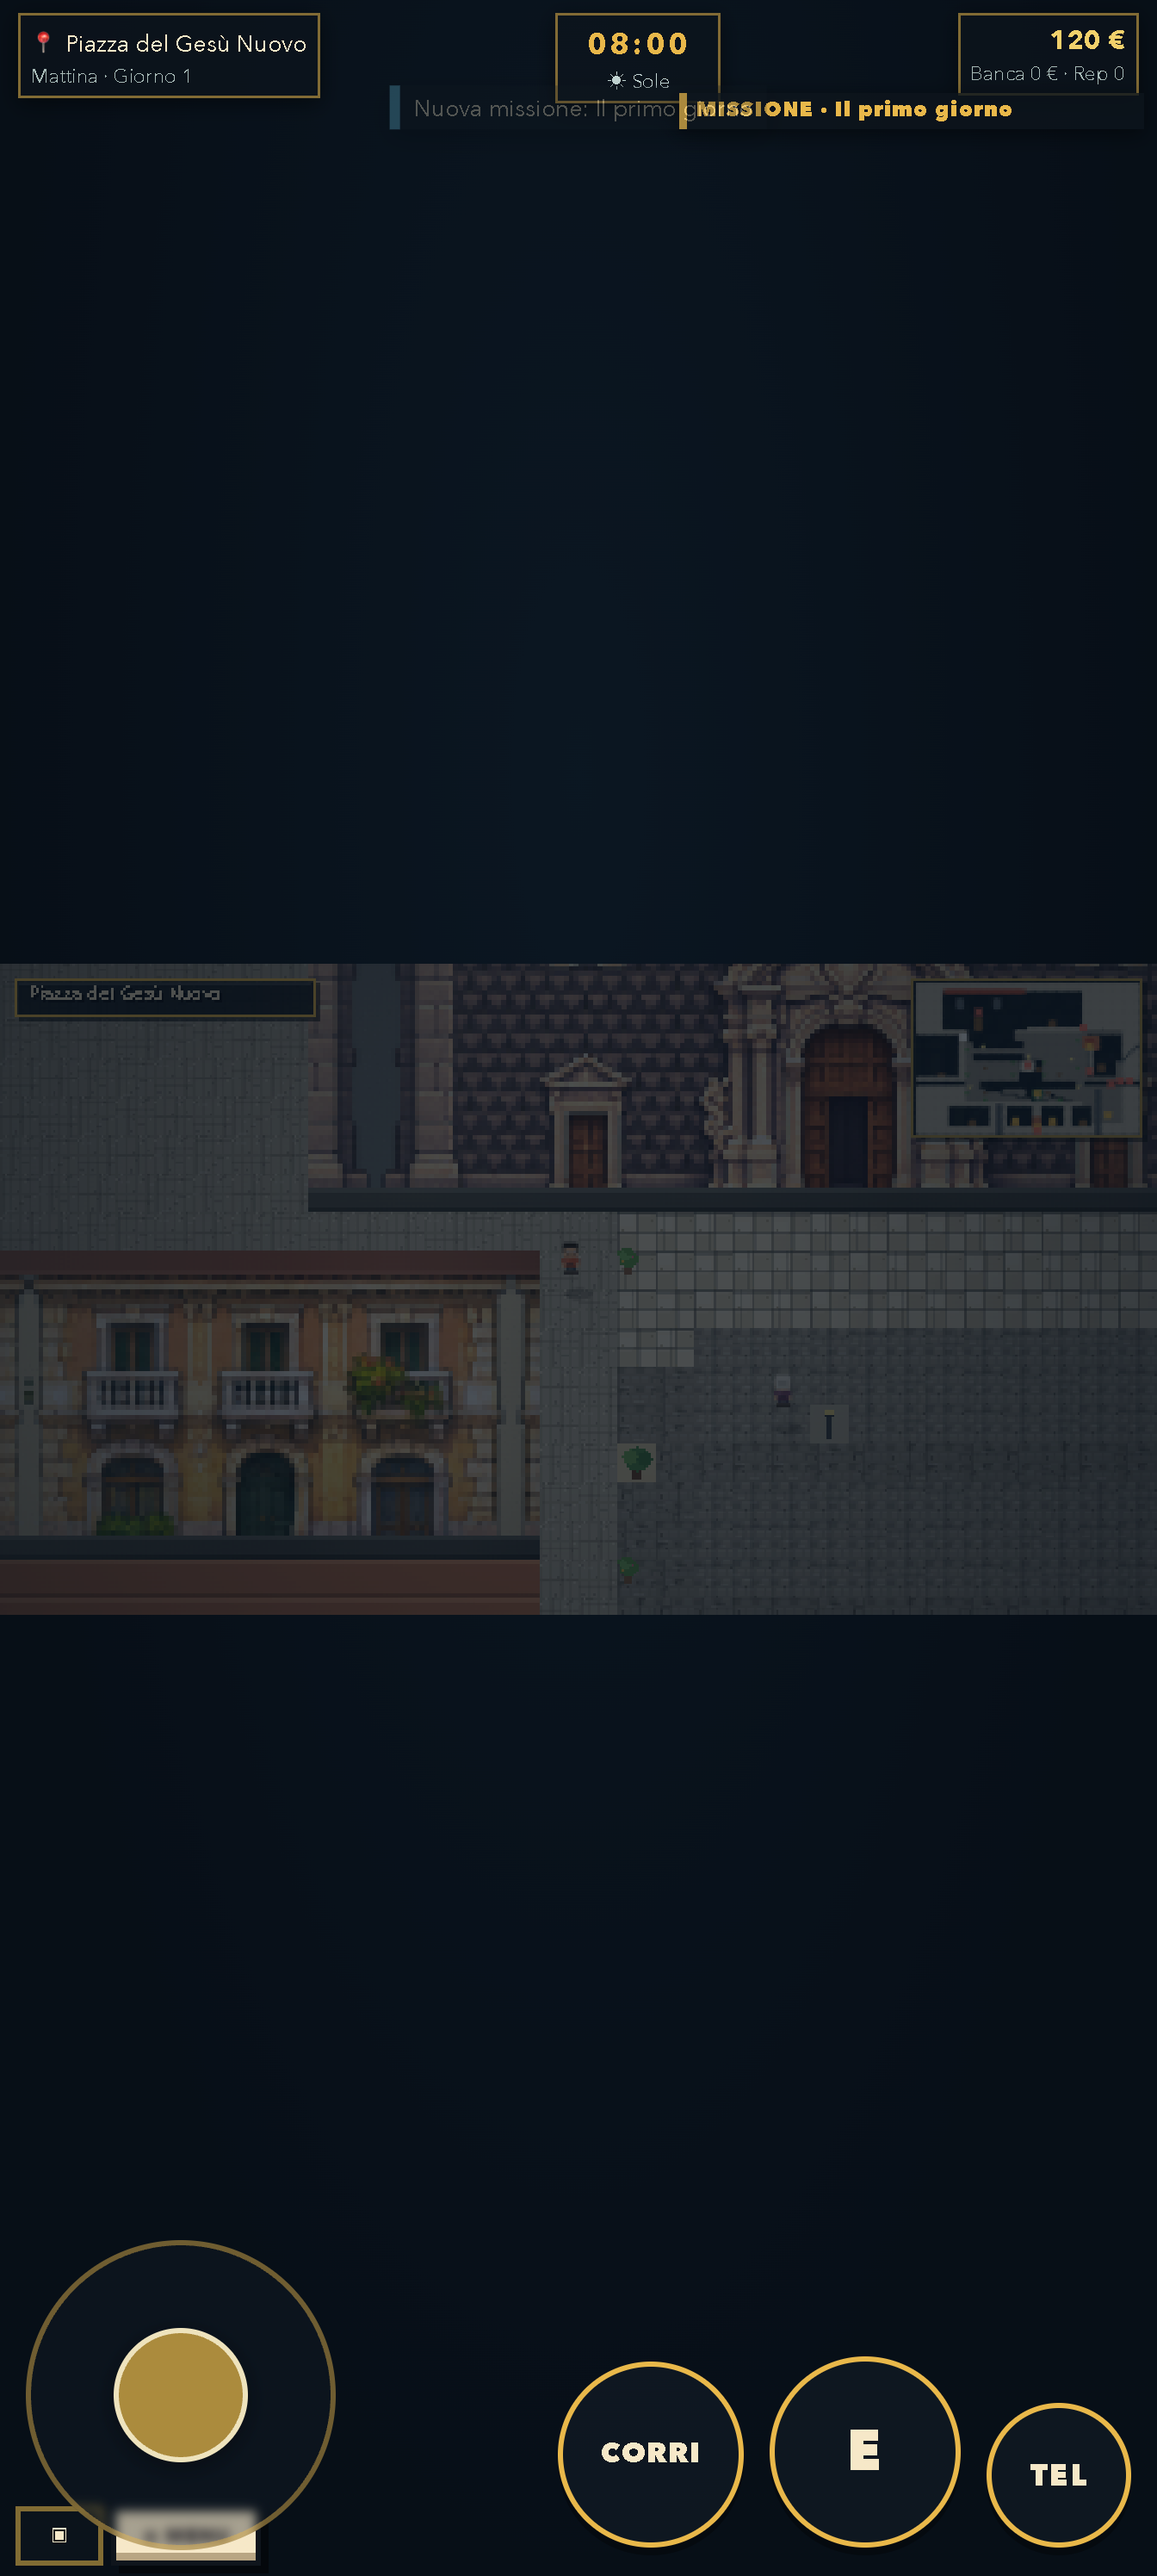
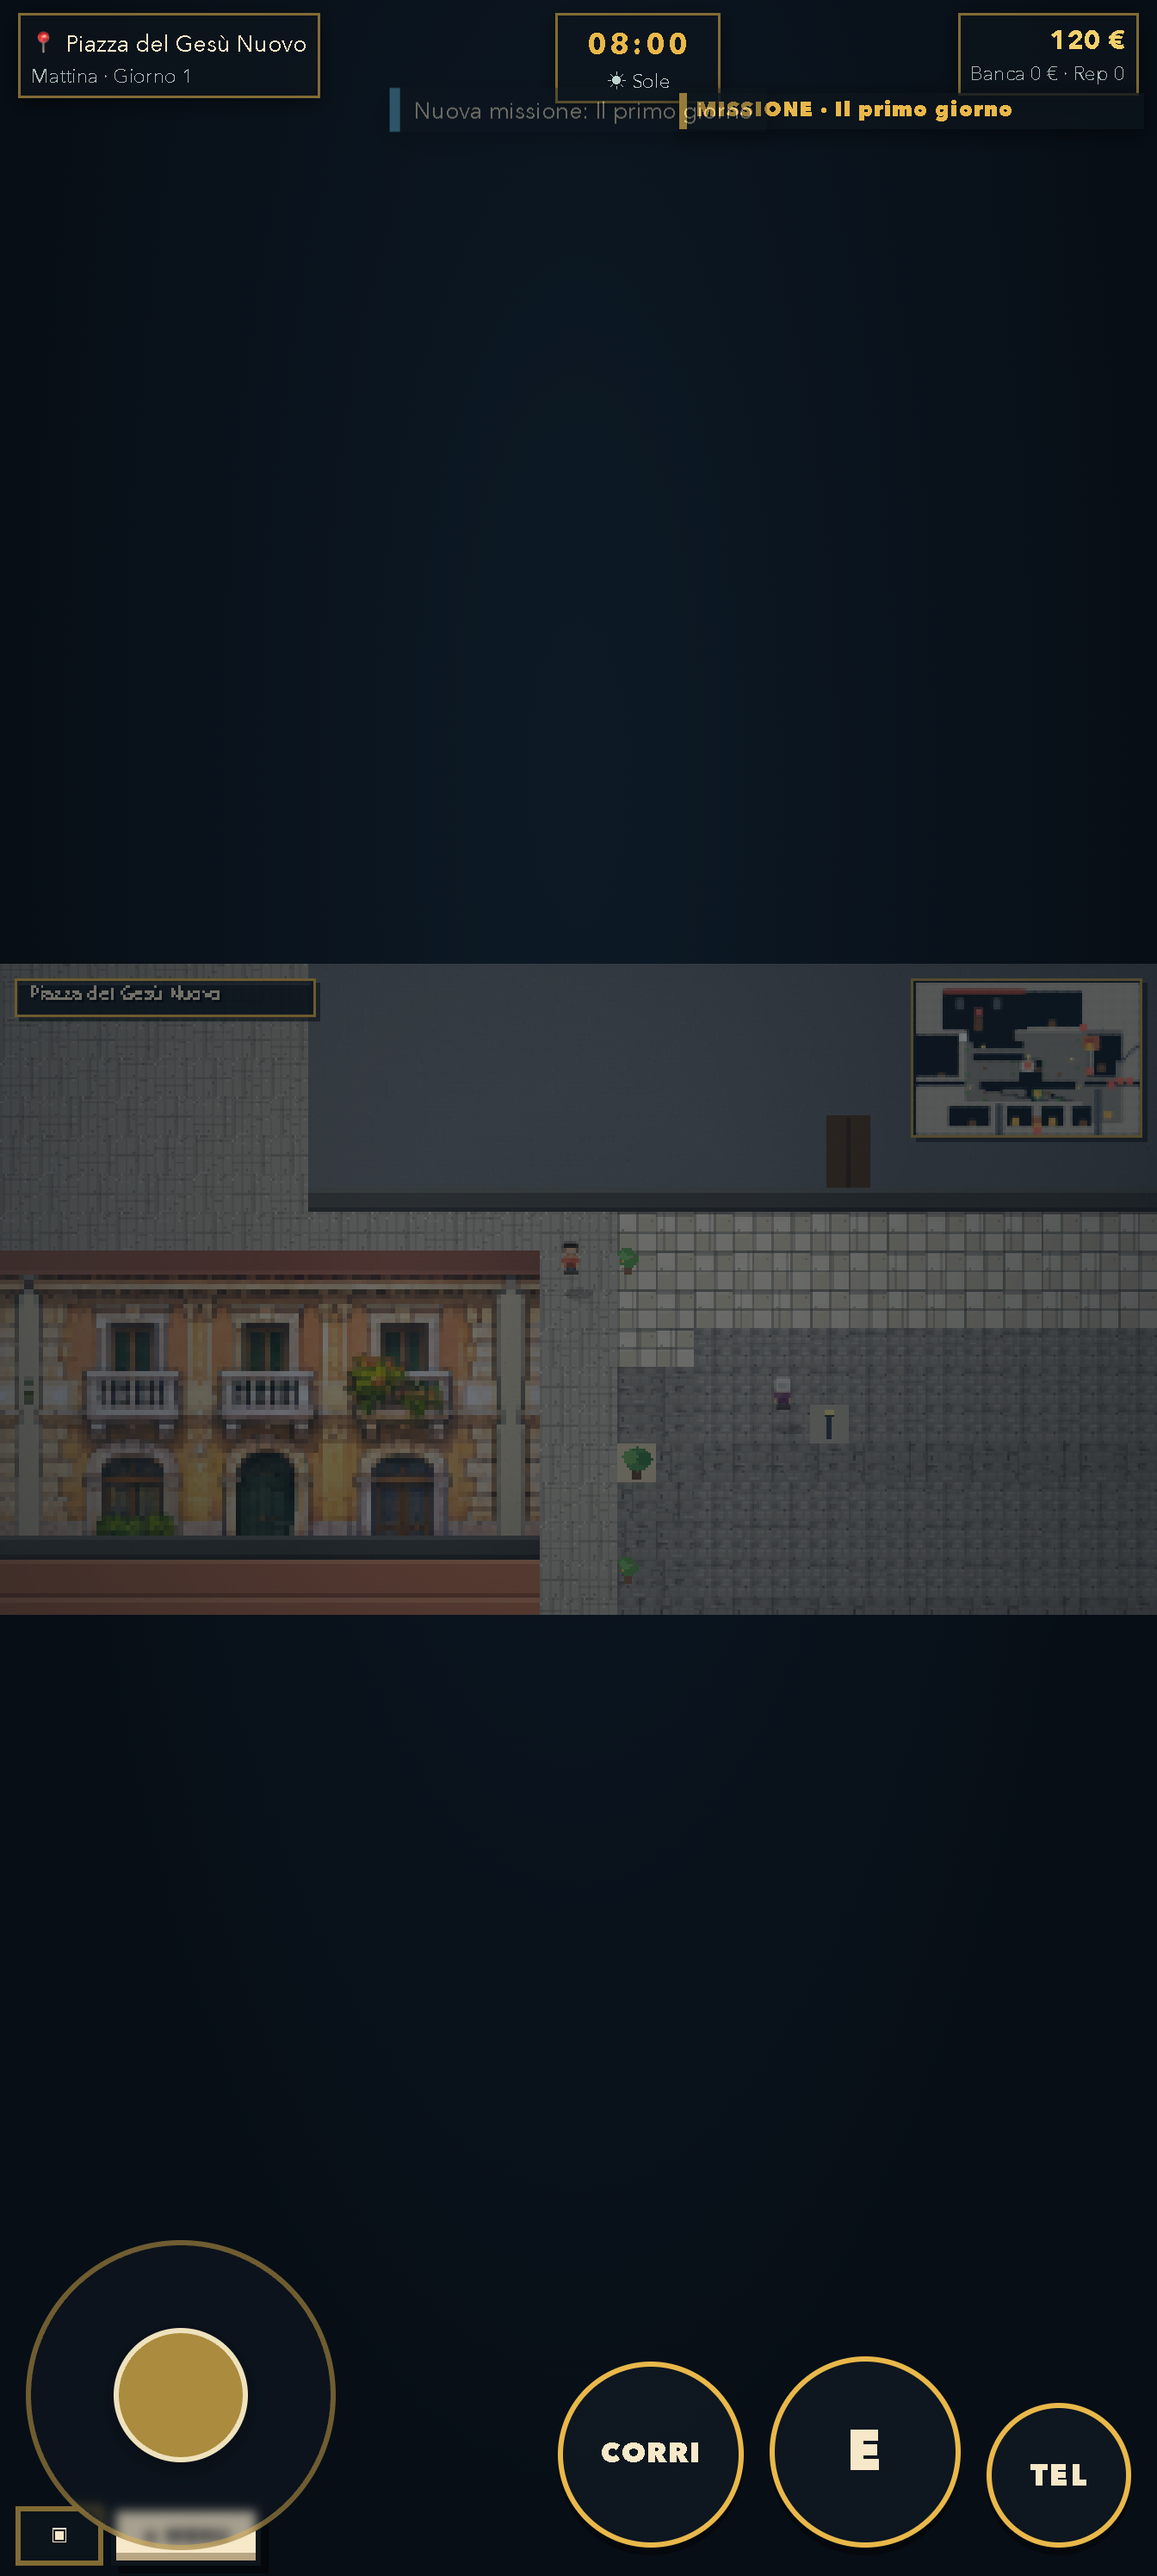
Documenta pubblicazione revisione qualitativa

Changed region(s): [[0.0, 0.3731, 1.0, 0.653], [0.0312, 0.3731, 0.1875, 0.4042]]

diff --git a/ROADMAP.md b/ROADMAP.md
@@ -1,8 +1,8 @@
 # CAMPANIA LIFE / CAMPANIA OPEN CODE — ROADMAP di ripresa
 
-**Aggiornato:** 25 novembre 2026 — revisione qualitativa completata, pronta per la pubblicazione autonoma sullo stesso URL.
+**Aggiornato:** 25 novembre 2026 — revisione qualitativa completata e pubblicata sullo stesso URL.
 **Repo:** `CampaniaLife` · branch locale `main` · remote `origin/main`.
-**Stato pubblico corrente (pre-pubblicazione qualitativa):** `c9fddbd`, bundle remoto `index-BK9wvC9o.js`, workflow `45606128039` `success`. Smoke test pubblico **OK**: `NUOVA PARTITA` → `napoli` `240,272` → WASD quattro direzioni + corsa + idle → joystick quattro direzioni → movimento `229,272` → save `campania_life_save_v1` → `CONTINUA` `229,272`. Marker beta e chiave save presenti nel bundle remoto.
+**Stato pubblico corrente:** revisione qualitativa `b7f2716`, bundle remoto `index-CWJT4Ahe.js`, workflow `45616242811` `success` (build `139212256590`, deploy `139212645019`). Smoke test pubblico **OK**: `NUOVA PARTITA` → `napoli` `240,272` → WASD quattro direzioni + corsa + idle → joystick quattro direzioni → movimento `229,272` → save `campania_life_save_v1` → `CONTINUA` `229,272`. Marker beta, chiave save, `blockedBox`, `doorClosed` e `awningSprite` presenti nel bundle remoto. Pubblicazione precedente: `c9fddbd`, bundle `index-BK9wvC9o.js`, workflow `45606128039`.
 **Checkpoint della revisione qualitativa:** `checkpoint/pre-quality-review` / `backup/pre-quality-review` su `4cd0e35`, con bundle `../backup/pre-quality-review/CampaniaLife-4cd0e35.bundle`.
 **Nota:** la workflow `45513882269` era stata annullata deliberatamente prima della revisione visiva; la pubblicazione finale precedente è avvenuta sullo stesso URL con la workflow `45606128039`.
 
@@ -73,7 +73,7 @@
 
 ## 2. Stato dei controlli
 
-- [x] Tutti i gate automatici rieseguiti dopo la revisione qualitativa: regressione `37/37`, texture audit `21/21` facciate e `50/50` PNG, render audit `0` errori, visual explore `0` errori su 52 visite, `mobile-start` locale e pubblico `OK`, build Vite `OK`, `git diff --check` `OK`. Il gate CI-like con `GH_PAGES_BASE=/campania-life/` va ripetuto dopo il commit finale.
+- [x] Tutti i gate automatici rieseguiti dopo la revisione qualitativa: regressione `37/37`, texture audit `21/21` facciate e `50/50` PNG, render audit `0` errori, visual explore `0` errori su 52 visite, `mobile-start` locale, CI-like e pubblico `OK`, build Vite e CI-like `OK`, `git diff --check` `OK`.
 - [x] Checkpoint qualitativo creato su `4cd0e35`: tag `checkpoint/pre-quality-review`, branch `backup/pre-quality-review` e bundle `../backup/pre-quality-review/CampaniaLife-4cd0e35.bundle`.
 - [x] Checkpoint storico di pubblicazione su `e4271d2`: tag `checkpoint/pre-final-publish`, branch `backup/pre-final-publish` e bundle `../CampaniaLife-backup-2026-11-25-final.bundle` verificato.
 - [ ] **Verifica estetica fisica non sostituibile dal modello.** Il modello corrente non supporta input immagine: gli screenshot (`qa/campania-open-code-1/macbook-*.png`, `pixel9proxl-*.png`) e le analisi programmatiche non equivalgono all'occhio umano. La pubblicazione procede su autorizzazione esplicita dell'utente; resta utile una revisione umana su MacBook/Pixel fisici.
@@ -83,10 +83,10 @@
 ## 3. Pubblicazione autonoma
 
 1. [x] Pubblicazione precedente completata senza attendere ulteriore conferma: workflow `45606128039`, bundle `index-BK9wvC9o.js`, smoke pubblico OK.
-2. [ ] Committare e pushare `main` con la revisione qualitativa, senza attendere ulteriore conferma: autorizzazione esplicita dell'utente dopo il superamento dei controlli.
-3. [ ] Verificare che la nuova GitHub Actions completi `build` e `deploy` con `success` sullo stesso URL.
-4. [ ] Ripetere `npm run test:mobile-start` sul sito pubblico: NUOVA PARTITA, WASD, joystick touch, save `campania_life_save_v1` e CONTINUA.
-5. [ ] Aggiornare run ID finali e bundle remoto in questo file e in `qa/campania-open-code-1/README.md`.
+2. [x] Committato e pushato `main` con la revisione qualitativa (`b7f2716`), senza attendere ulteriore conferma: autorizzazione esplicita dell'utente dopo il superamento dei controlli.
+3. [x] GitHub Actions `45616242811` completata: `build` `139212256590` e `deploy` `139212645019` entrambi `success`.
+4. [x] `npm run test:mobile-start` ripetuto sul sito pubblico: NUOVA PARTITA, WASD, joystick touch, save `campania_life_save_v1` e CONTINUA tutti OK.
+5. [x] Run ID finali e bundle remoto aggiornati in questo file e in `qa/campania-open-code-1/README.md`.
 6. Non ripristinare lo step CI `Install Playwright Chromium`: `mobile-start.mjs` usa il fallback al Chrome di sistema.
 7. Non ripristinare `checkpoint/pre-structural-review` (`51a22c0`) né `checkpoint/pre-quality-review` (`4cd0e35`): le correzioni successive sono la fonte autorevole.
 

diff --git a/qa/campania-open-code-1/README.md b/qa/campania-open-code-1/README.md
@@ -129,7 +129,9 @@ Checkpoint di ingresso: `checkpoint/pre-quality-review` / `backup/pre-quality-re
 - Il confronto estetico con fotografie reali resta una **revisione umana**: il modello corrente non può leggere le immagini. `confronto-visivo.jpg` e le screenshot aggiornate sono il materiale da rivedere.
 - Le facciate M1 di Napoli restano deliberatamente invariate perché sono la fonte autorevole; le loro imperfezioni fotografiche originali non sono state "riparate" con texture estranee.
 
-**Gate della revisione qualitativa** — regressione **37/37 PASS** (tre nuovi test: impronta completa/porte chiuse, veicoli orientati e corsie, profondità delle facciate); texture audit **50/50 PNG e 21/21 facciate**; render audit **0 errori**; visual-explore **52 visite, 0 errori, 0 occlusioni, 0 profondità naturali errate**; mobile-start **OK** su build locale e pubblica; build Vite **OK**; `git diff --check` **OK**.
+**Gate della revisione qualitativa** — regressione **37/37 PASS** (tre nuovi test: impronta completa/porte chiuse, veicoli orientati e corsie, profondità delle facciate); texture audit **50/50 PNG e 21/21 facciate**; render audit **0 errori**; visual-explore **52 visite, 0 errori, 0 occlusioni, 0 profondità naturali errate**; mobile-start **OK** su build locale, CI-like e pubblica; build Vite e CI-like **OK**; `git diff --check` **OK**.
+
+**Pubblicazione** — commit `b7f2716` su `main`, workflow `45616242811` `success` (build `139212256590`, deploy `139212645019`), bundle remoto `index-CWJT4Ahe.js`, URL invariato `https://walkingbad10.github.io/campania-life/`. Marker beta e chiave save verificati nel bundle remoto; smoke test pubblico ripetuto con esito OK.
 
 ## Esito del confronto
 Il testo di Wikipedia conferma l'impianto usato dalla graybox: obelisco al centro dello spiazzale, palazzi nobiliari a ovest (Pandola / Pignatelli di Monteleone), Gesù Nuovo e Santa Chiara sui lati opposti, Palazzo delle Congregazioni presso il Gesù. La facciata del Gesù è riconoscibile per il bugnato a punta di diamante in piperno; la guglia è in marmo bianco e bardiglio.
@@ -140,7 +142,7 @@ Il modello con capacità vision-language disponibile (`nemotron-3.5-super-vl-fre
 - Save key `campania_life_save_v1`, forma `{ v:1, t, data }`, nessun nuovo campo top-level.
 - Marker beta invariato: `BETA PUBBLICA · Richiede verifica manuale su MacBook e smartphone`.
 - URL pubblico: `https://walkingbad10.github.io/campania-life/` (invariato).
-- Deploy finale verificato: run `45606128039` `success` (build `139177320188` e deploy `139177739108` entrambi `success`), commit `c9fddbd`, bundle remoto `index-BK9wvC9o.js`. Sul sito pubblico `npm run test:mobile-start` entra in `napoli` a `240,272`, verifica WASD quattro direzioni con corsa e idle e joystick quattro direzioni, muove il giocatore a `229,272`, salva in `campania_life_save_v1` e ripristina con «CONTINUA». Marker beta e chiave save presenti nel bundle remoto.
+- Deploy finale verificato: run `45616242811` `success` (build `139212256590` e deploy `139212645019` entrambi `success`), commit `b7f2716`, bundle remoto `index-CWJT4Ahe.js`. Sul sito pubblico `npm run test:mobile-start` entra in `napoli` a `240,272`, verifica WASD quattro direzioni con corsa e idle e joystick quattro direzioni, muove il giocatore a `229,272`, salva in `campania_life_save_v1` e ripristina con «CONTINUA». Marker beta, chiave save, `blockedBox`, `doorClosed` e `awningSprite` presenti nel bundle remoto. Deploy precedente: `45606128039`, commit `c9fddbd`, bundle `index-BK9wvC9o.js`.
 - Spawn Napoli `240,272`; guglia base `34,25,4x3` e POI `36,26`; edicola `38,34`; `palazzo_e` altezza `5*T`; corridoio metro `56,21..28` percorribile.
 - `U` lampione e `E` panchina solidi; `G`, `Y`, `D`, `d`, `e` attraversabili.
 - Portali, POI, missioni, negozi, interazioni e formato salvataggi invariati.
